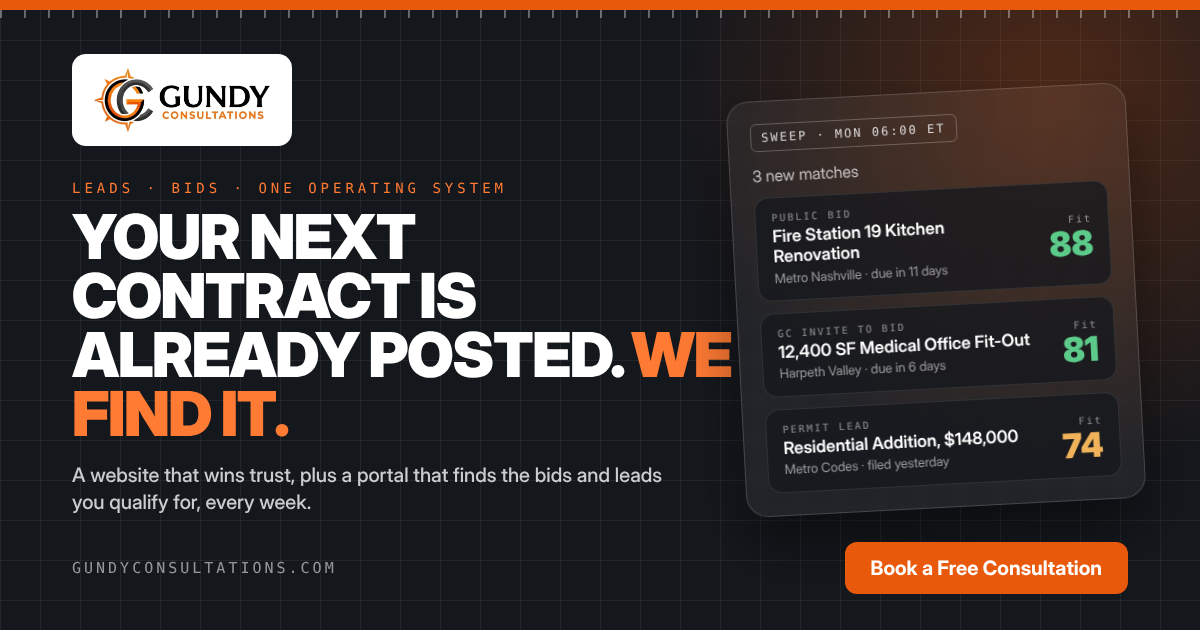
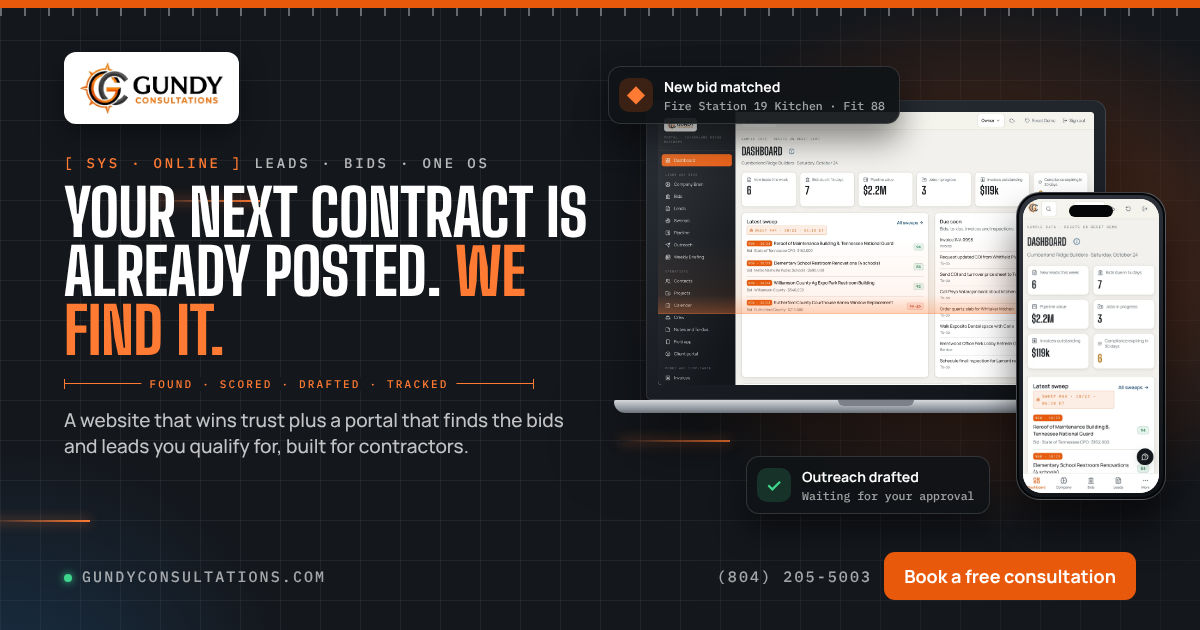
New share preview card and real phone number

diff --git a/scripts/og-card.html b/scripts/og-card.html
@@ -1,54 +1,59 @@
-<!doctype html>
-<html>
-<head>
-<meta charset="utf-8" />
-<style>
-  * { margin: 0; padding: 0; box-sizing: border-box; }
-  body { width: 1200px; height: 630px; background: #14171C; font-family: 'Inter Display', Inter, 'Big Shoulders Display', system-ui, sans-serif; color: #fff; overflow: hidden; position: relative; }
-  .grid { position: absolute; inset: 0; background-image: linear-gradient(to right, rgba(255,255,255,0.06) 1px, transparent 1px), linear-gradient(to bottom, rgba(255,255,255,0.06) 1px, transparent 1px); background-size: 40px 40px; }
-  .glow { position: absolute; width: 900px; height: 900px; right: -300px; top: -350px; background: radial-gradient(circle, rgba(232,89,12,0.28) 0%, rgba(232,89,12,0) 60%); }
-  .bar { position: absolute; left: 0; right: 0; top: 0; height: 10px; background: #E8590C; }
-  .ticks { position: absolute; left: 0; right: 0; top: 10px; height: 8px; background-image: linear-gradient(to right, rgba(255,255,255,0.35) 2px, transparent 2px); background-size: 24px 8px; }
-  .left { position: absolute; left: 72px; top: 54px; width: 660px; }
-  .plate { display: inline-block; background: #fff; border-radius: 14px; padding: 14px 22px; }
-  .plate img { height: 64px; display: block; }
-  .eyebrow { margin-top: 30px; font-family: 'DejaVu Sans Mono', monospace; font-size: 14px; letter-spacing: 4px; color: #FF7A33; text-transform: uppercase; }
-  h1 { margin-top: 12px; font-weight: 900; font-size: 62px; line-height: 0.95; letter-spacing: -1.5px; text-transform: uppercase; }
-  h1 span { color: #FF7A33; }
-  .sub { margin-top: 18px; font-size: 20px; line-height: 1.35; color: rgba(255,255,255,0.78); font-weight: 500; max-width: 600px; }
-  .card { position: absolute; right: 64px; top: 92px; width: 400px; background: rgba(255,255,255,0.05); border: 1px solid rgba(255,255,255,0.16); border-radius: 22px; padding: 22px; backdrop-filter: blur(6px); box-shadow: 0 30px 60px rgba(0,0,0,0.45); transform: rotate(-3deg); }
-  .stamp { display: inline-block; font-family: 'DejaVu Sans Mono', monospace; font-size: 12px; letter-spacing: 2px; color: rgba(255,255,255,0.8); border: 1px solid rgba(255,255,255,0.25); border-radius: 6px; padding: 6px 10px; text-transform: uppercase; }
-  .card p.t { margin-top: 14px; font-size: 16px; color: rgba(255,255,255,0.7); }
-  .row { margin-top: 12px; background: rgba(20,23,28,0.75); border: 1px solid rgba(255,255,255,0.1); border-radius: 14px; padding: 14px 16px; display: flex; align-items: center; justify-content: space-between; gap: 14px; }
-  .row .k { font-family: 'DejaVu Sans Mono', monospace; font-size: 10px; letter-spacing: 2px; color: rgba(255,255,255,0.5); text-transform: uppercase; }
-  .row .n { font-size: 17px; font-weight: 600; margin-top: 3px; line-height: 1.2; }
-  .row .s { font-size: 13px; color: rgba(255,255,255,0.55); margin-top: 3px; }
-  .row .fit { text-align: right; }
-  .row .fit b { display: block; font-size: 34px; font-weight: 900; line-height: 1; color: #5CCB8A; }
-  .row .fit b.w { color: #F0B35A; }
-  .row .fit i { font-style: normal; font-family: 'DejaVu Sans Mono', monospace; font-size: 10px; letter-spacing: 2px; color: rgba(255,255,255,0.5); }
-  .foot { position: absolute; left: 72px; bottom: 36px; right: 72px; display: flex; justify-content: space-between; align-items: center; font-family: 'DejaVu Sans Mono', monospace; font-size: 15px; letter-spacing: 3px; color: rgba(255,255,255,0.55); text-transform: uppercase; }
-  .foot .cta { background: #E8590C; color: #fff; font-family: 'Inter Display', Inter, sans-serif; font-weight: 700; letter-spacing: 0; text-transform: none; font-size: 20px; padding: 14px 26px; border-radius: 12px; }
-</style>
-</head>
-<body>
-  <div class="grid"></div>
-  <div class="glow"></div>
-  <div class="bar"></div>
-  <div class="ticks"></div>
-  <div class="left">
-    <div class="plate"><img src="../public/images/gundy-logo.png" alt="" /></div>
-    <p class="eyebrow">Leads · Bids · One operating system</p>
-    <h1>Your next contract is already posted. <span>We find it.</span></h1>
-    <p class="sub">A website that wins trust, plus a portal that finds the bids and leads you qualify for, every week.</p>
-  </div>
-  <div class="card">
-    <span class="stamp">Sweep · Mon 06:00 ET</span>
-    <p class="t">3 new matches</p>
-    <div class="row"><div><div class="k">Public bid</div><div class="n">Fire Station 19 Kitchen Renovation</div><div class="s">Metro Nashville · due in 11 days</div></div><div class="fit"><i>Fit</i><b>88</b></div></div>
-    <div class="row"><div><div class="k">GC invite to bid</div><div class="n">12,400 SF Medical Office Fit-Out</div><div class="s">Harpeth Valley · due in 6 days</div></div><div class="fit"><i>Fit</i><b>81</b></div></div>
-    <div class="row"><div><div class="k">Permit lead</div><div class="n">Residential Addition, $148,000</div><div class="s">Metro Codes · filed yesterday</div></div><div class="fit"><i>Fit</i><b class="w">74</b></div></div>
-  </div>
-  <div class="foot"><span>gundyconsultations.com</span><span class="cta">Book a Free Consultation</span></div>
-</body>
-</html>
+<!doctype html><html><head><meta charset="utf-8"><style>
+*{box-sizing:border-box;margin:0;padding:0}
+html,body{width:1200px;height:630px;overflow:hidden}
+body{position:relative;background:#14171C;color:#fff;font-family:Manrope,sans-serif}
+.grid{position:absolute;inset:0;background-image:linear-gradient(to right,rgba(255,255,255,.06) 1px,transparent 1px),linear-gradient(to bottom,rgba(255,255,255,.06) 1px,transparent 1px);background-size:40px 40px;mask-image:linear-gradient(90deg,#000 55%,rgba(0,0,0,.5))}
+.glow{position:absolute;inset:0;background:radial-gradient(520px 380px at 82% 42%,rgba(232,89,12,.38),transparent 70%),radial-gradient(420px 360px at 0% 110%,rgba(31,78,121,.45),transparent 70%)}
+.topbar{position:absolute;left:0;right:0;top:0;height:8px;background:#E8590C}
+.ticks{position:absolute;left:0;right:0;top:8px;height:8px;background-image:linear-gradient(to right,rgba(255,255,255,.35) 2px,transparent 2px);background-size:24px 8px}
+.packet{position:absolute;height:2px;width:110px;background:linear-gradient(90deg,transparent,#FF7A33);box-shadow:0 0 12px rgba(255,122,51,.8)}
+.left{position:absolute;left:64px;top:52px;width:530px}
+.plate{display:inline-flex;background:#fff;border-radius:12px;padding:10px 16px;line-height:0;box-shadow:0 10px 26px rgba(0,0,0,.35)}
+.plate img{height:52px}
+.sys{margin-top:30px;font:500 14px 'IBM Plex Mono',monospace;letter-spacing:.2em;text-transform:uppercase;color:rgba(255,255,255,.7)}
+.sys b{color:#FF7A33;font-weight:500}
+h1{margin-top:12px;font:800 64px/.92 'Big Shoulders Display',sans-serif;text-transform:uppercase;letter-spacing:-.005em}
+h1 span{color:#FF7A33}
+.dim{margin-top:18px;width:470px;height:10px;border-left:1px solid #FF7A33;border-right:1px solid #FF7A33;background:linear-gradient(#FF7A33,#FF7A33) center/100% 1px no-repeat;position:relative}
+.dim i{position:absolute;left:50%;top:50%;transform:translate(-50%,-50%);background:#14171C;padding:0 8px;font:500 11px 'IBM Plex Mono',monospace;letter-spacing:.2em;color:#FF7A33;font-style:normal;white-space:nowrap}
+.sub{margin-top:18px;font:500 19px/1.4 Manrope,sans-serif;color:rgba(255,255,255,.75);max-width:520px}
+.foot{position:absolute;left:64px;right:64px;bottom:30px;display:flex;align-items:center;justify-content:space-between;font:500 15px 'IBM Plex Mono',monospace;letter-spacing:.14em;text-transform:uppercase;color:rgba(255,255,255,.62)}
+.foot .ph{display:flex;align-items:center;gap:12px}
+.foot .cta{background:#E8590C;color:#fff;font:700 18px Manrope,sans-serif;letter-spacing:0;text-transform:none;padding:12px 20px;border-radius:11px}
+.dot{display:inline-block;width:8px;height:8px;border-radius:50%;background:#3DD68C;box-shadow:0 0 8px #3DD68C;margin-right:10px}
+/* devices */
+.stage{position:absolute;right:34px;top:70px;width:540px;height:430px}
+.laptop{position:absolute;left:20px;top:30px;width:460px;filter:drop-shadow(0 26px 34px rgba(0,0,0,.5))}
+.lid{background:linear-gradient(160deg,#2a2f37,#101317);border-radius:13px 13px 5px 5px;padding:11px 11px 14px;border:1px solid rgba(255,255,255,.12)}
+.screen{position:relative;aspect-ratio:16/10;border-radius:4px;overflow:hidden;background:#f3f1ec}
+.screen img,.pscreen img{position:absolute;inset:0;width:100%;height:100%;object-fit:cover;object-position:top left}
+.glare{position:absolute;inset:0;background:linear-gradient(115deg,rgba(255,255,255,.14),transparent 32%)}
+.scan{position:absolute;left:0;right:0;top:46%;height:28%;background:linear-gradient(to bottom,transparent,rgba(255,122,51,.08) 75%,rgba(255,122,51,.35) 99%,rgba(255,122,51,.8) 100%)}
+.base{height:13px;margin:0 -32px;background:linear-gradient(180deg,#d5d8dc,#8f959d 70%,#6b7178);border-radius:2px 2px 14px 14px;position:relative}
+.base span{position:absolute;left:50%;top:0;width:76px;height:6px;margin-left:-38px;background:#7b8189;border-radius:0 0 7px 7px}
+.phone{position:absolute;right:0;bottom:0;width:150px;border-radius:24px;padding:6px;background:linear-gradient(160deg,#31363f,#0d1014);border:1px solid rgba(255,255,255,.2);box-shadow:0 26px 40px rgba(0,0,0,.55),inset 0 0 0 2px #050607}
+.pscreen{position:relative;aspect-ratio:390/844;border-radius:19px;overflow:hidden;background:#f3f1ec}
+.island{position:absolute;top:6px;left:50%;width:44px;height:12px;margin-left:-22px;background:#050607;border-radius:99px;z-index:2}
+.chip{position:absolute;display:flex;align-items:center;gap:11px;padding:10px 14px 10px 10px;border-radius:13px;background:rgba(16,19,23,.93);border:1px solid rgba(255,255,255,.14);box-shadow:0 16px 32px rgba(0,0,0,.45)}
+.chip .ic{width:34px;height:34px;border-radius:10px;display:grid;place-items:center;background:rgba(232,89,12,.2);color:#FF7A33;font:700 18px Manrope}
+.chip.ok .ic{background:rgba(61,214,140,.16);color:#3DD68C}
+.chip b{display:block;font:700 14px Manrope;color:#fff}
+.chip small{display:block;font:500 11.5px 'IBM Plex Mono',monospace;color:rgba(255,255,255,.6);margin-top:2px}
+</style></head><body>
+<div class="grid"></div><div class="glow"></div><div class="topbar"></div><div class="ticks"></div>
+<span class="packet" style="left:150px;top:200px"></span><span class="packet" style="left:620px;top:440px"></span><span class="packet" style="left:-20px;top:520px"></span>
+<div class="left">
+  <div class="plate"><img src="../public/images/gundy-logo.png"></div>
+  <p class="sys"><b>[ SYS · ONLINE ]</b> Leads · Bids · One OS</p>
+  <h1>Your next contract is already posted. <span>We find it.</span></h1>
+  <div class="dim"><i>FOUND · SCORED · DRAFTED · TRACKED</i></div>
+  <p class="sub">A website that wins trust plus a portal that finds the bids and leads you qualify for, built for contractors.</p>
+</div>
+<div class="stage">
+  <div class="laptop"><div class="lid"><div class="screen"><img src="../public/portal/desk-home.webp"><span class="scan"></span><span class="glare"></span></div></div><div class="base"><span></span></div></div>
+  <div class="phone"><div class="pscreen"><img src="../public/portal/phone-home.webp"><span class="island"></span><span class="glare"></span></div></div>
+  <div class="chip" style="left:-18px;top:-4px"><span class="ic">◆</span><span><b>New bid matched</b><small>Fire Station 19 Kitchen · Fit 88</small></span></div>
+  <div class="chip ok" style="left:120px;bottom:-14px"><span class="ic">✓</span><span><b>Outreach drafted</b><small>Waiting for your approval</small></span></div>
+</div>
+<div class="foot"><span><span class="dot"></span>gundyconsultations.com</span><span class="ph">(804) 205-5003 <span class="cta">Book a free consultation</span></span></div>
+</body></html>

diff --git a/index.html b/index.html
@@ -31,19 +31,19 @@
       content="A website that wins trust plus a portal that finds public bids and local leads every week, drafts the outreach, and runs the jobs. Built for remodelers, roofers, GCs and specialty subs."
     />
     <meta property="og:url" content="https://gundyconsultations.com/" />
-    <meta property="og:image" content="https://gundyconsultations.com/og-image.png" />
-    <meta property="og:image:secure_url" content="https://gundyconsultations.com/og-image.png" />
-    <meta property="og:image:type" content="image/png" />
+    <meta property="og:image" content="https://gundyconsultations.com/og-card.jpg" />
+    <meta property="og:image:secure_url" content="https://gundyconsultations.com/og-card.jpg" />
+    <meta property="og:image:type" content="image/jpeg" />
     <meta property="og:image:width" content="1200" />
     <meta property="og:image:height" content="630" />
-    <meta property="og:image:alt" content="Gundy Consultations: Your next contract is already posted. We find it. Sample sweep card showing three scored bids and leads." />
+    <meta property="og:image:alt" content="Gundy Consultations: Your next contract is already posted. We find it. The contractor portal on a laptop and phone, with a new bid matched and outreach drafted." />
     <meta name="twitter:card" content="summary_large_image" />
     <meta name="twitter:title" content="Gundy Consultations | Your next contract is already posted. We find it." />
     <meta
       name="twitter:description"
       content="Leads, bids and a business operating system for contractors and construction companies."
     />
-    <meta name="twitter:image" content="https://gundyconsultations.com/og-image.png" />
+    <meta name="twitter:image" content="https://gundyconsultations.com/og-card.jpg" />
     <meta name="twitter:image:alt" content="Gundy Consultations preview card" />
 
     <!-- Hidden static form so Netlify Forms detects the consultation form at build time -->

diff --git a/src/config/site.ts b/src/config/site.ts
@@ -8,8 +8,8 @@ export const site = {
   legalName: 'Gundy Consultations LLC', // TODO: confirm with Gundy (legal entity name)
   tagline: 'Your next contract is already posted. We find it.',
   domain: 'https://gundyconsultations.com',
-  phone: '(615) 555-0100', // TODO: confirm with Gundy
-  phoneHref: 'tel:+16155550100', // TODO: confirm with Gundy
+  phone: '(804) 205-5003',
+  phoneHref: 'tel:+18042055003',
   email: 'admin@gundyconsultations.com',
   address: {
     street: '4870 Sadler Road, Suite 300',
